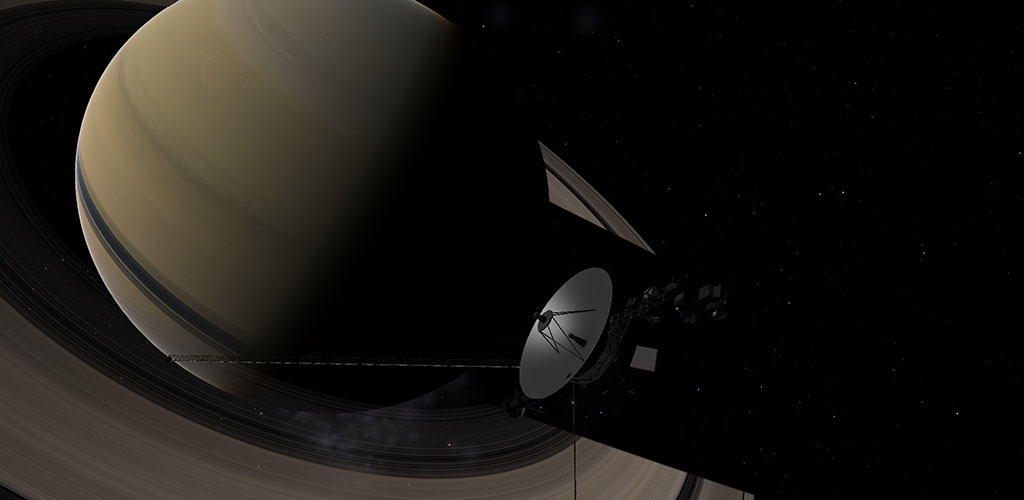
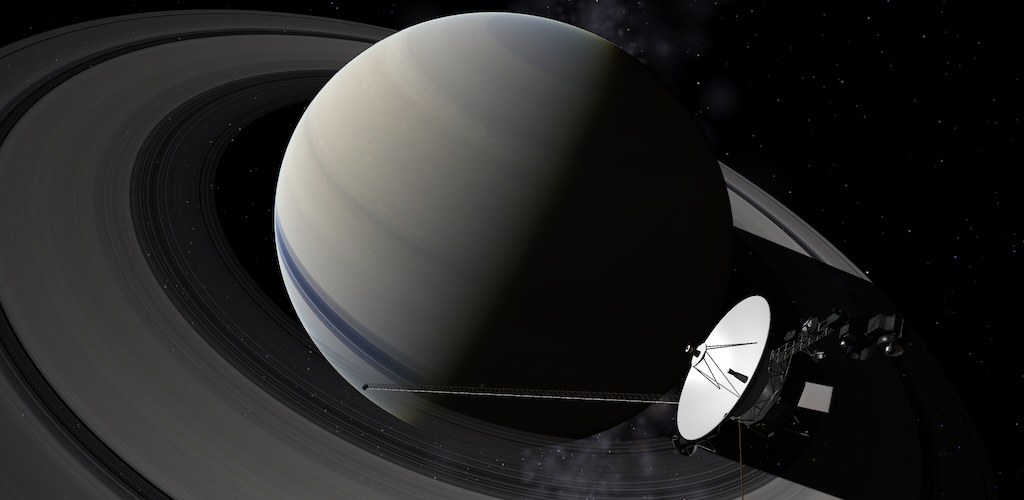
Update

diff --git a/app/src/main/java/space/celestia/mobilecelestia/MainActivity.kt b/app/src/main/java/space/celestia/mobilecelestia/MainActivity.kt
@@ -2358,8 +2358,8 @@ class MainActivity : AppCompatActivity(R.layout.activity_main),
         private const val GROUP_BROWSER_ITEM_GET_INFO = 9
         private const val GROUP_HEADER = 10
 
-        private const val CURRENT_DATA_VERSION = "144"
-        // 144: 1.9.17 Localization update
+        private const val CURRENT_DATA_VERSION = "145"
+        // 145: 1.9.17 Localization update data update (4ffc788159a00027213df687d76e8e87a794ef59)
         // 142: 1.9.16 Localization update data update (fcad6702ae267ba04fce023ee71038df5c02caf8)
         // 138: 1.9.15 Localization update data update (67a542671ace4ed5c92e32519525716038498f11)
         // 136: 1.9.14 Data update (9f34ed77b4e7117458734affaefd5015bf38c6ff)

diff --git a/Celestia/src/main/java/space/celestia/celestia/BrowserItem.java b/Celestia/src/main/java/space/celestia/celestia/BrowserItem.java
@@ -36,7 +36,6 @@ public class BrowserItem {
     private final static String POINTER_KEY = "pointer";
     private final static String CHILDREN_KEY = "children";
 
-    @RequiresApi(Build.VERSION_CODES.N)
     private static RuleBasedCollator collator = null;
 
     public interface ChildrenProvider {
@@ -188,19 +187,15 @@ public class BrowserItem {
             return;
         }
         childrenKeys = new ArrayList<>(children.keySet());
-        if (Build.VERSION.SDK_INT >= Build.VERSION_CODES.N) {
-            if (collator == null) {
-                Collator newCollator = Collator.getInstance();
-                if (newCollator instanceof RuleBasedCollator) {
-                    collator = (RuleBasedCollator) newCollator;
-                    collator.setNumericCollation(true);
-                }
+        if (collator == null) {
+            Collator newCollator = Collator.getInstance();
+            if (newCollator instanceof RuleBasedCollator) {
+                collator = (RuleBasedCollator) newCollator;
+                collator.setNumericCollation(true);
             }
-            if (collator != null) {
-                Collections.sort(childrenKeys, collator);
-            } else {
-                Collections.sort(childrenKeys);
-            }
+        }
+        if (collator != null) {
+            childrenKeys.sort(collator);
         } else {
             Collections.sort(childrenKeys);
         }